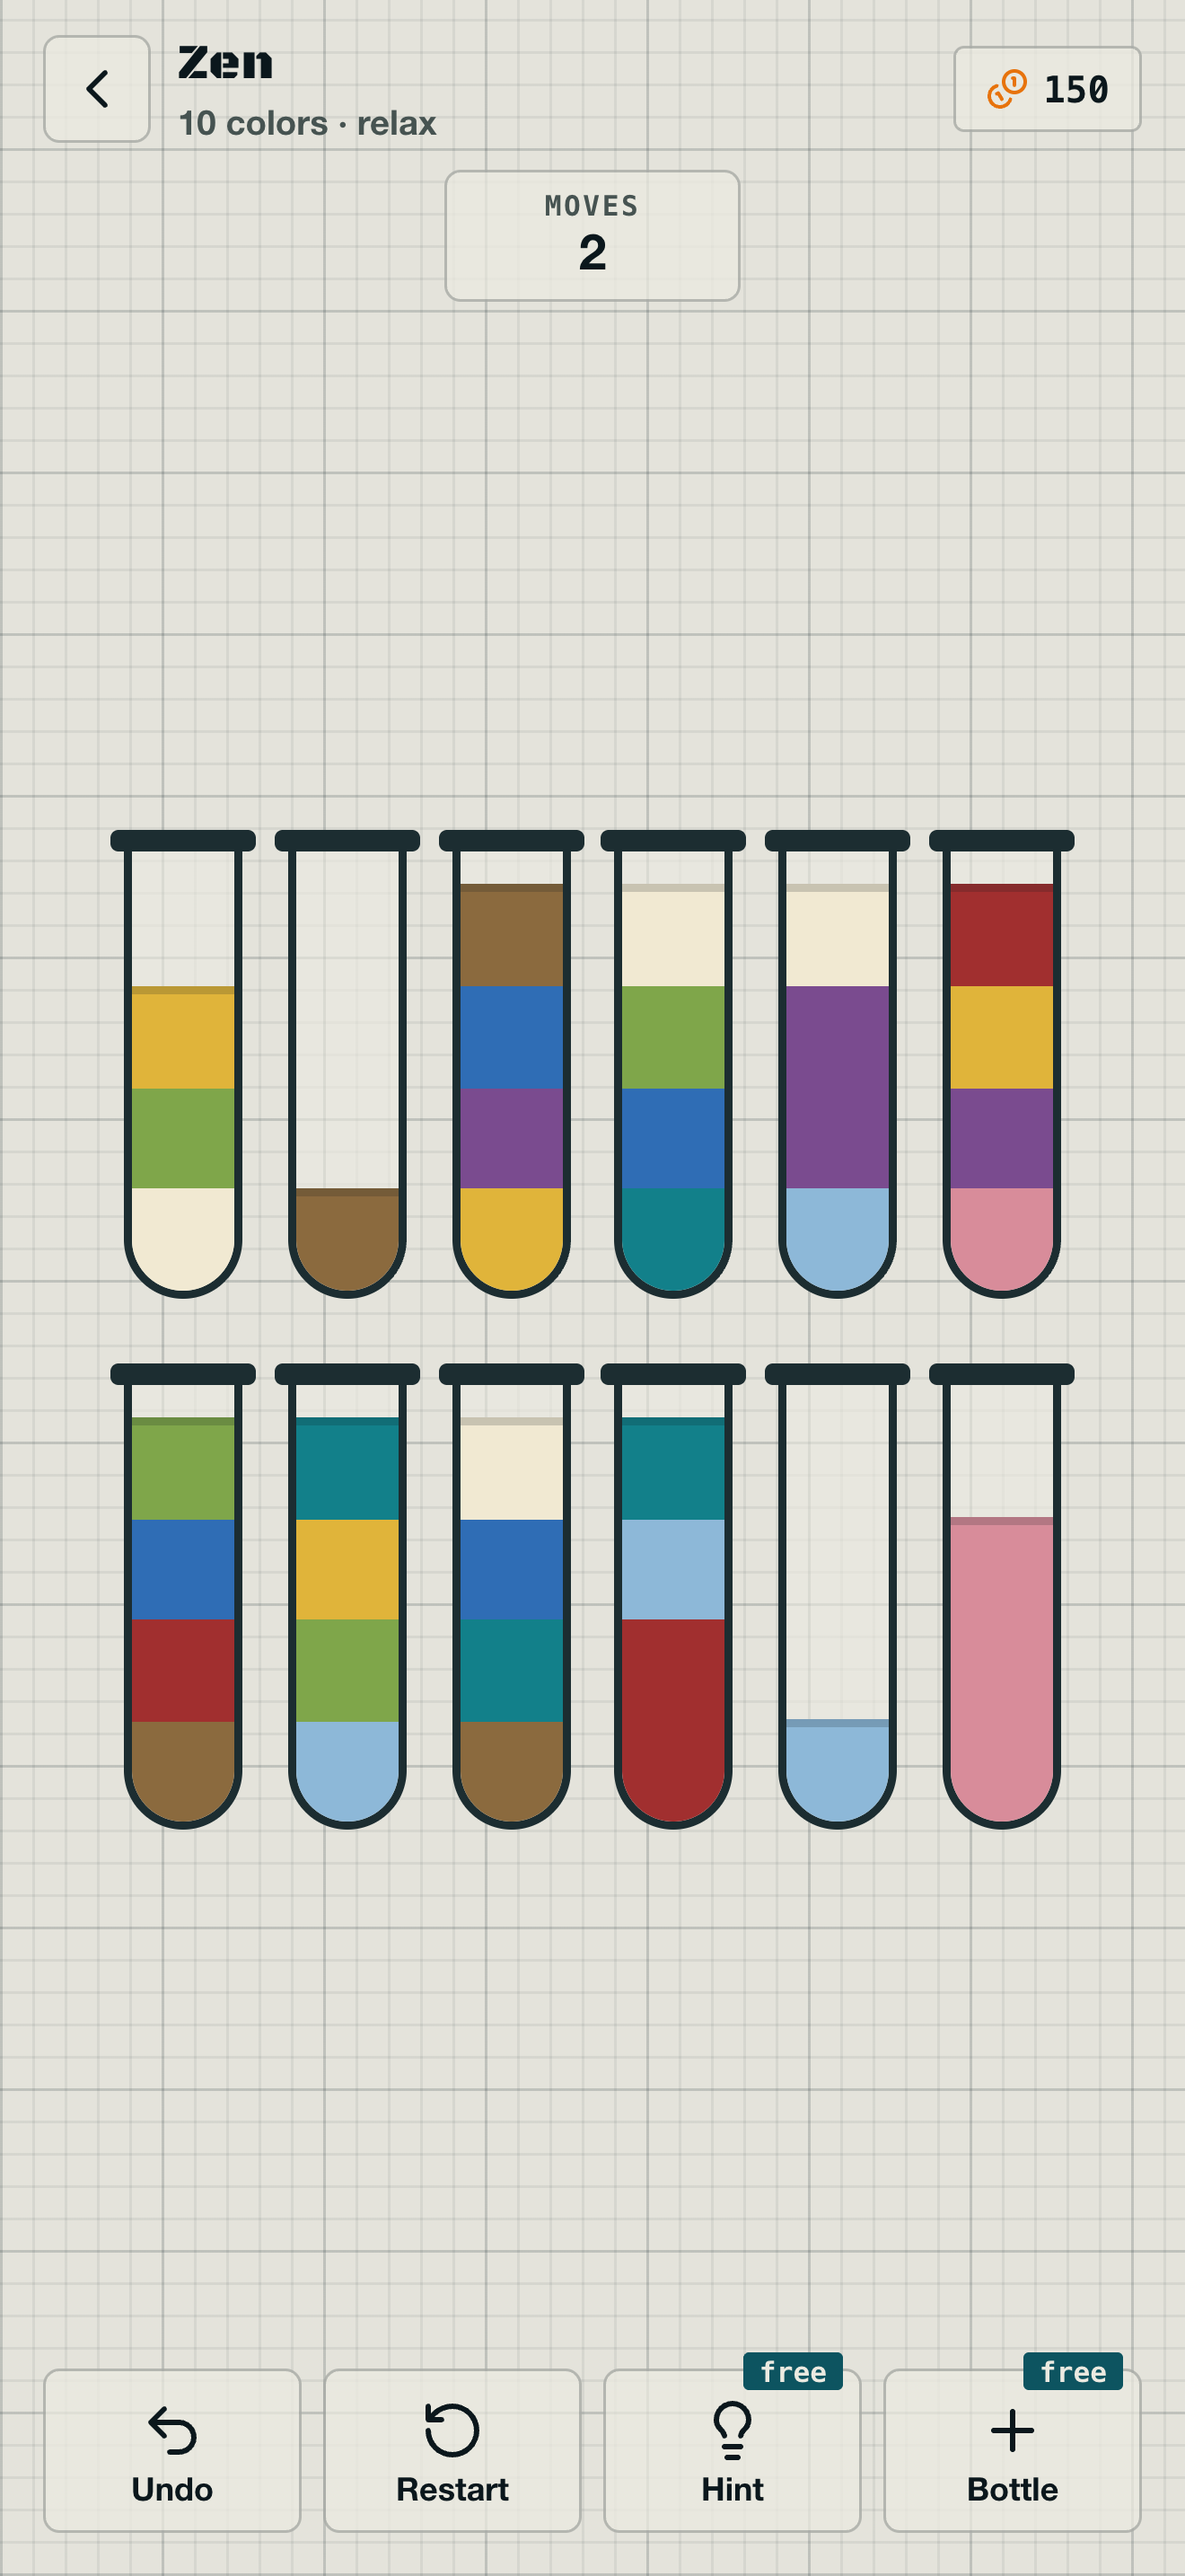
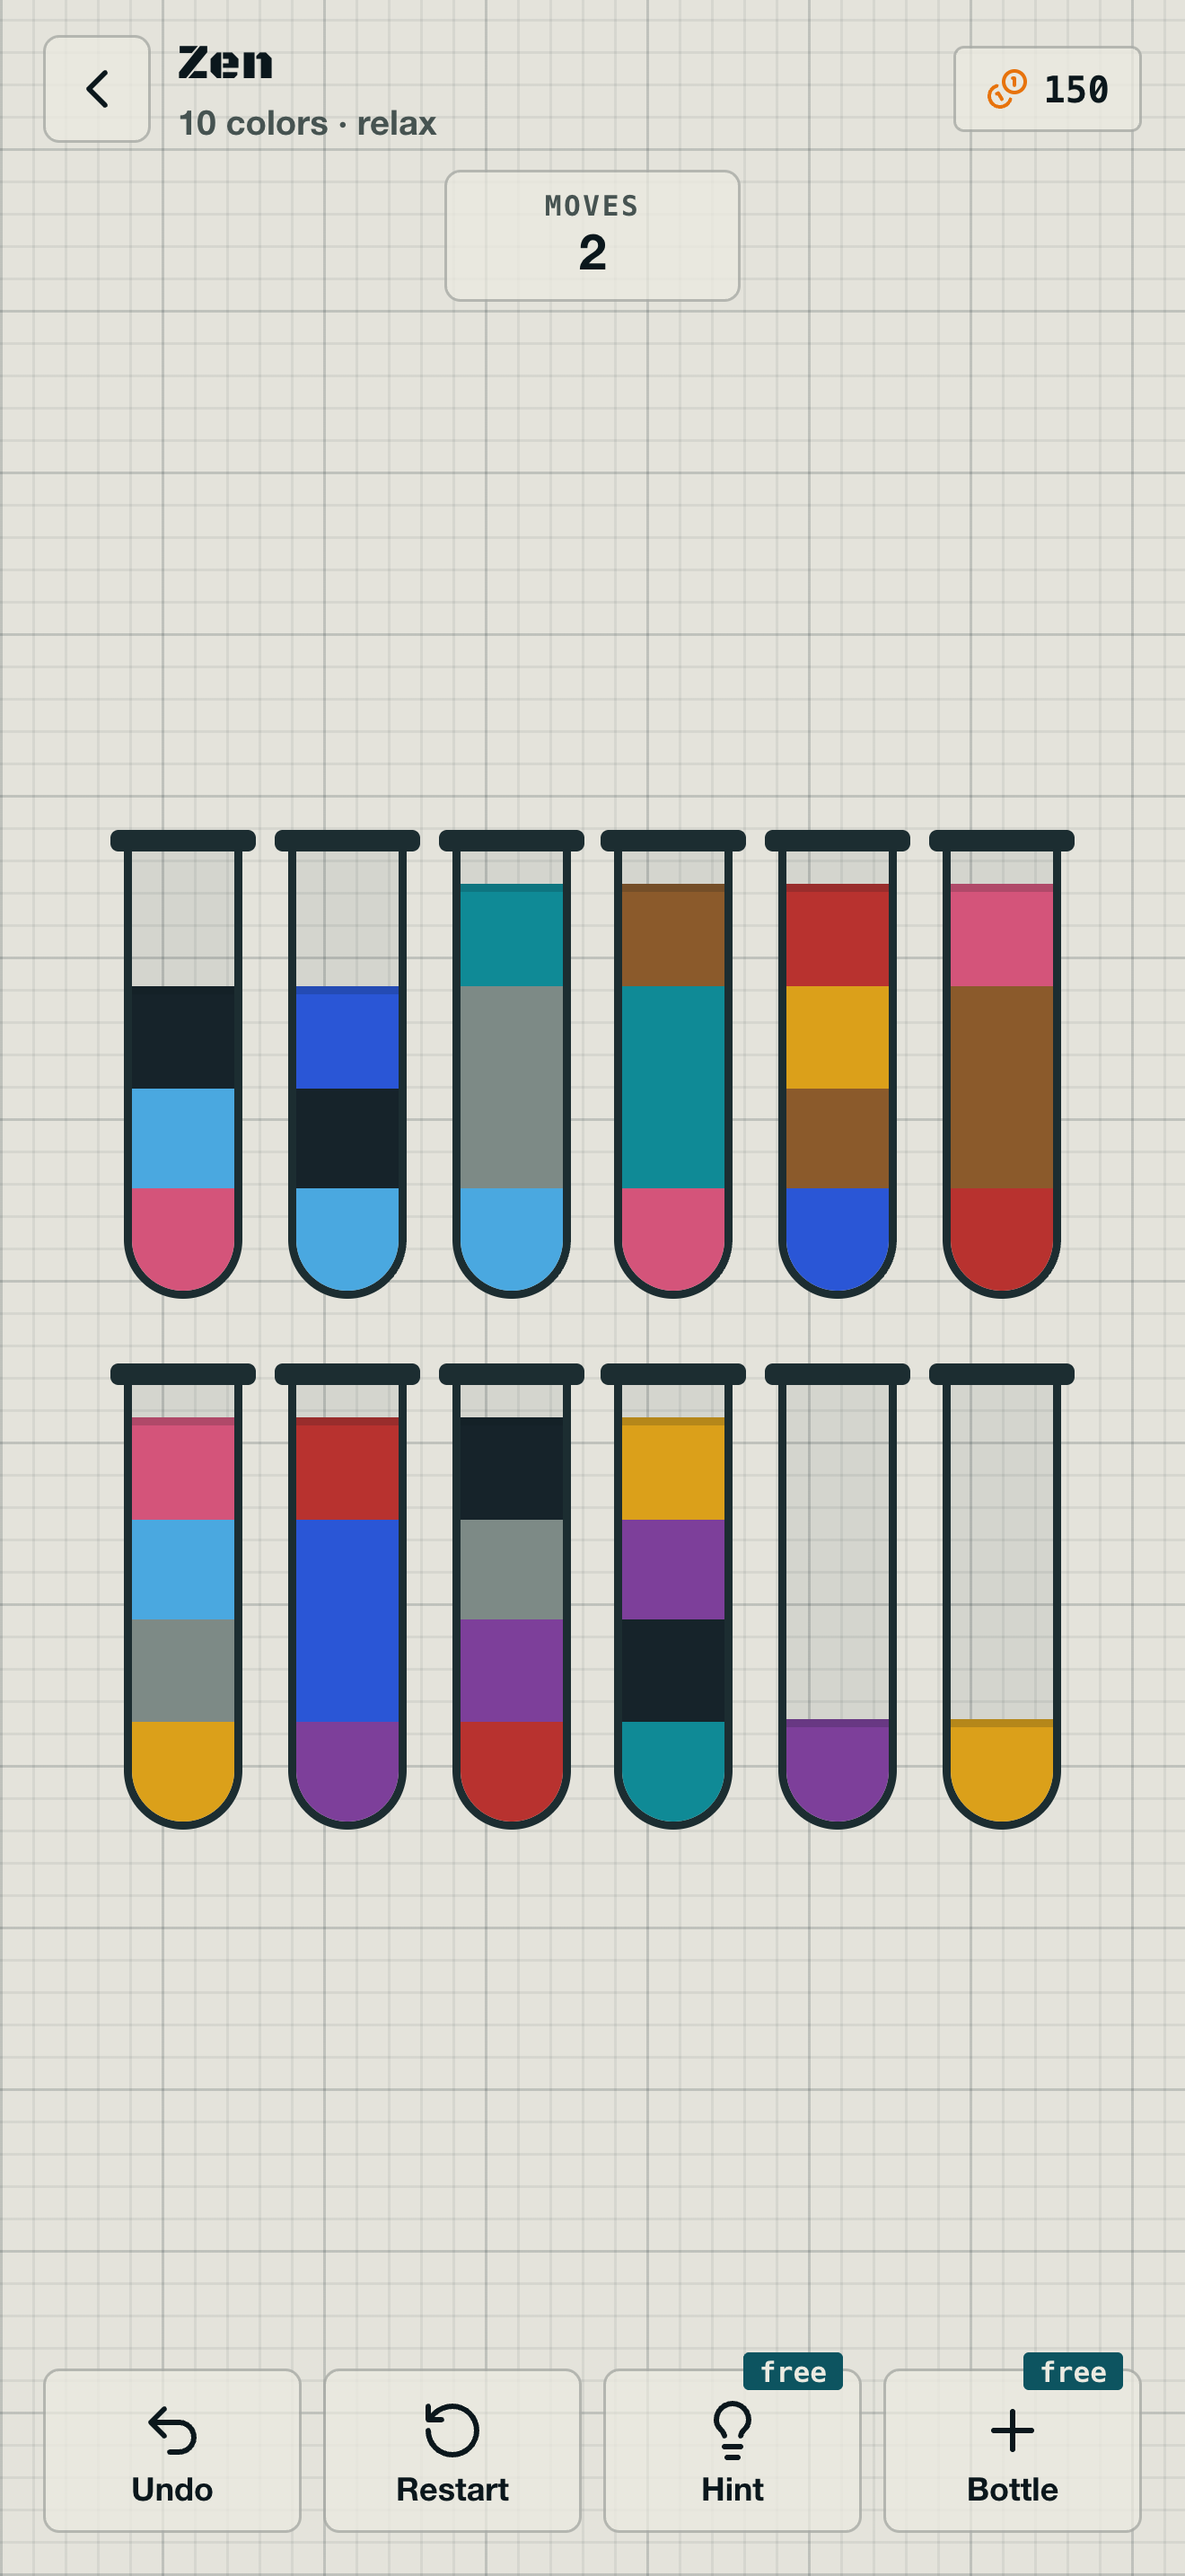
Retake store screenshots with the brighter piece colors
Also describe the current palette in the README.

Claude-Session: https://claude.ai/code/session_013aiYiMTxj85kd54ee4p9mD

diff --git a/README.md b/README.md
@@ -48,7 +48,7 @@ Shared across all games:
 Everything follows The Pollywog's visual style guide, whose official reference is the mission wallpaper (`ThePollywogMissionWallpaper.png`): off-white paper with a fine engineering grid, navy-charcoal ink for text and lines, and small signal-orange and teal marks. No dark backgrounds, glows or gradients.
 
 - **Colors and type** are CSS variables at the top of `src/styles.css`. Titles use the Black Ops One stencil face, labels and numbers a monospace.
-- **Game pieces** use the Mission palette in `src/games/sort/palettes.ts`: 12 brand colors spread apart so every piece is easy to tell apart, including with red-green color blindness (Hex Marks the Spot uses the first 8). The brand guide lists them. The five palettes in the shop are optional unlocks, each a muted, flat take on its theme so it still sits on paper (no neon or candy brights).
+- **Game pieces** use the Mission palette in `src/games/sort/palettes.ts`: 12 vivid, flat brand colors with no whites or creams, so every piece stands out from the paper and from each other (Hex Marks the Spot uses the first 8). The brand guide lists them. The five palettes in the shop are optional unlocks built the same way, and `tests/palettes.test.ts` checks every palette's contrast against its background.
 - **App icons** are small mission patches drawn by `scripts/ios-assets.sh` from `resources/<id>/icon.svg`. The splash and the "by The Pollywog" mark use the mission patch, `resources/brand/pollywog-badge.png` and `public/pollywog.png`.
 
 ## Architecture
